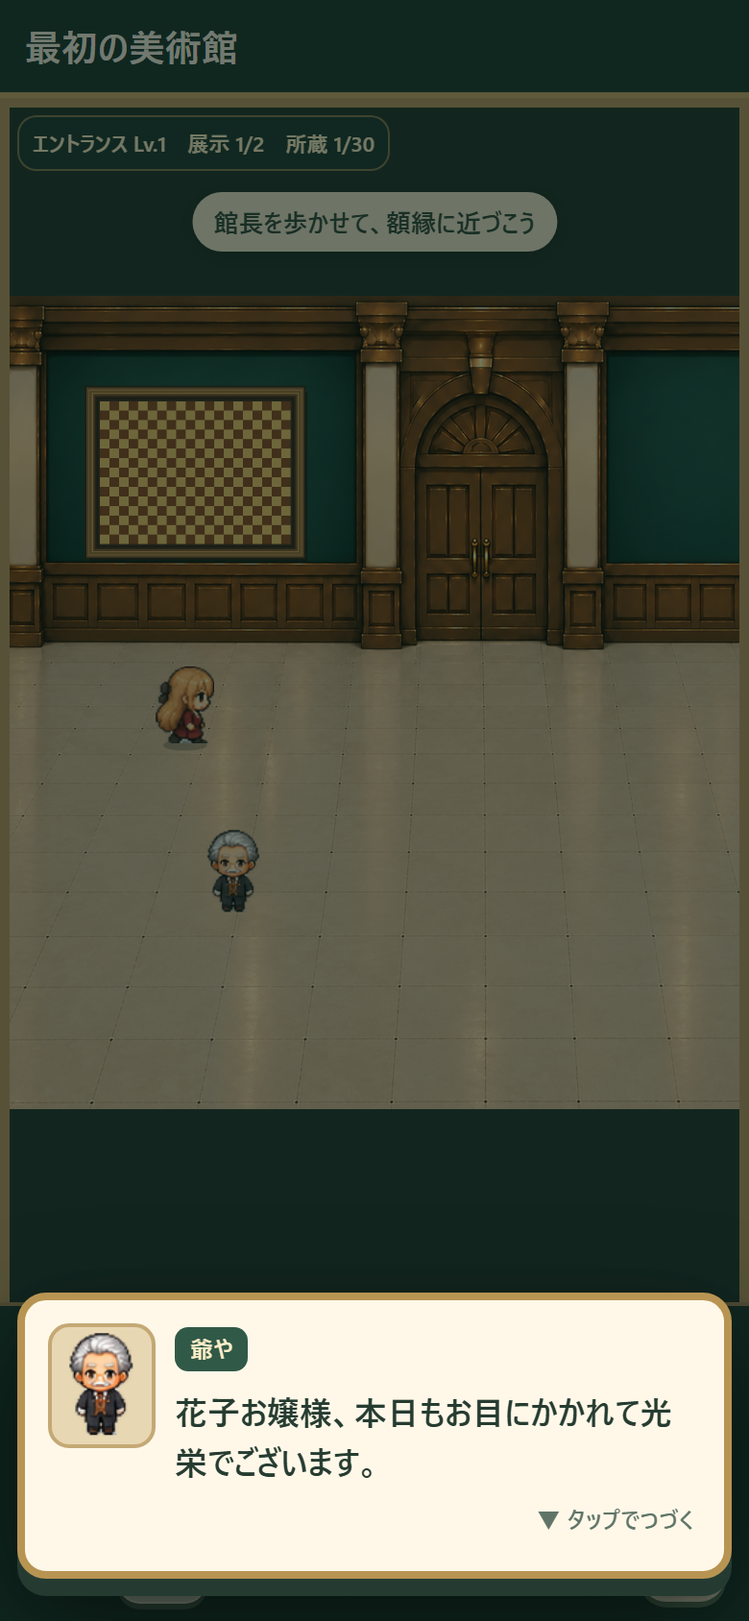
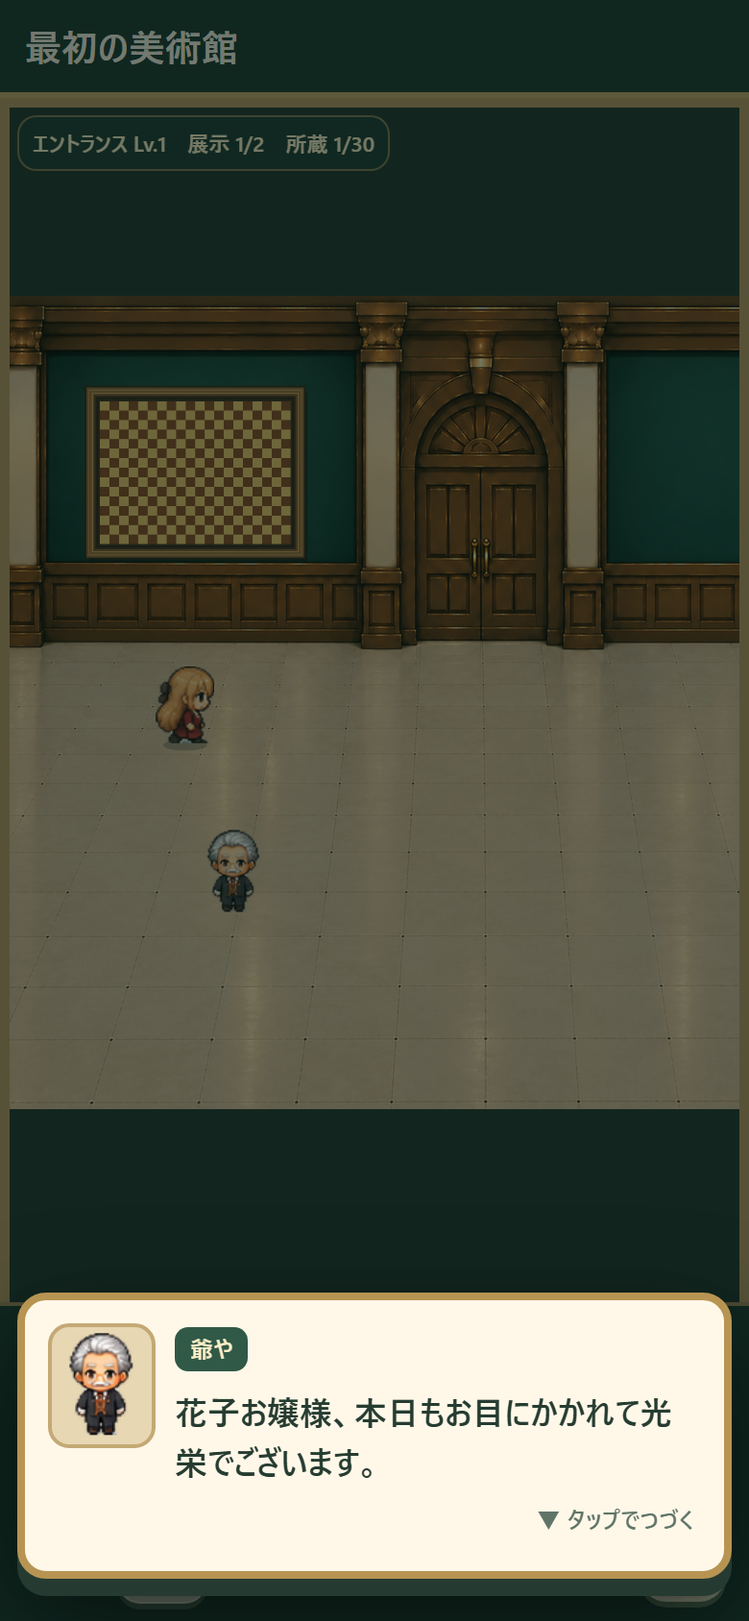
fix(a18): refine tutorial dialogue, hint position and artwork form

Changed region(s): [[0.2462, 0.0924, 0.7385, 0.154]]

diff --git a/layout-test/index.html b/layout-test/index.html
@@ -68,11 +68,11 @@ footer{background:#18372f;color:#ecdcbf;font-size:12px;padding:5px 14px;flex:non
 }
 @media(max-height:390px){header{height:47px}.brand #museumName{font-size:17px}.status{font-size:13px}.nav button{font-size:13px;padding:7px 9px}.dpad{width:133px;height:133px}.act button{min-height:54px}.stage .hint{font-size:13px;padding:7px 11px}}
 @media(max-width:720px){.brand small{display:none}.brand{min-width:110px}.brand #museumName{font-size:16px}.status{font-size:12px}.nav button{font-size:12px;padding:8px}}
-</style><link rel="stylesheet" href="art-inspect.css?v=editor-v2-20261027"><link rel="stylesheet" href="viewer-minimal.css?v=1.10"><link rel="stylesheet" href="portrait.css?v=1.5"><link rel="stylesheet" href="viewer-orientation.css?v=1.5"><link rel="stylesheet" href="functional-ui.css?v=1.6"><link rel="stylesheet" href="rpg-chat.css?v=1.6"><link rel="stylesheet" href="p6-story.css?v=1"><link rel="stylesheet" href="ui-v17.css?v=1.7"><link rel="stylesheet" href="registration-compact.css?v=1.20"><link rel="stylesheet" href="a18-fixed-ui.css?v=1"><link rel="stylesheet" href="a18-viewer-framing.css?v=1"><link rel="stylesheet" href="opening-v1.css?v=4-compact-name"></head>
+</style><link rel="stylesheet" href="art-inspect.css?v=editor-v2-20261027"><link rel="stylesheet" href="viewer-minimal.css?v=1.10"><link rel="stylesheet" href="portrait.css?v=1.5"><link rel="stylesheet" href="viewer-orientation.css?v=1.5"><link rel="stylesheet" href="functional-ui.css?v=1.6"><link rel="stylesheet" href="rpg-chat.css?v=1.6"><link rel="stylesheet" href="p6-story.css?v=1"><link rel="stylesheet" href="ui-v17.css?v=1.7"><link rel="stylesheet" href="registration-compact.css?v=1.20"><link rel="stylesheet" href="a18-fixed-ui.css?v=1"><link rel="stylesheet" href="a18-viewer-framing.css?v=1"><link rel="stylesheet" href="opening-v1.css?v=4-compact-name"><link rel="stylesheet" href="tutorial-ui-polish.css?v=1"></head>
 <body>
 <div class="app">
 <header><div class="brand"><small>PUZZLE MUSEUM</small><button id="museumName" title="美術館の名前を変更">パズル美術館</button></div></header>
-<main class="stage" id="stage"><canvas id="world" aria-label="館長が歩く美術館"></canvas><button id="floorMapButton" class="a18-map-button" type="button" aria-label="館内図を開く">館内図 ▦</button><div class="status" id="statusText">展示室の入口</div><div class="tag">✦ <strong>とっておき美術館</strong></div><div class="hint" id="hint">館長を歩かせて、額縁に近づこう</div>
+<main class="stage" id="stage"><canvas id="world" aria-label="館長が歩く美術館"></canvas><button id="floorMapButton" class="a18-map-button" type="button" aria-label="館内図を開く">館内図 ▦</button><div class="status" id="statusText">展示室の入口</div><div class="tag">✦ <strong>とっておき美術館</strong></div><div class="hint" id="hint" role="status" hidden></div>
 <div class="dpad" id="dpad"><button data-d="up" aria-label="上へ">▲</button><button data-d="left" aria-label="左へ">◀</button><div class="label">歩く</div><button data-d="right" aria-label="右へ">▶</button><button data-d="down" aria-label="下へ">▼</button></div>
 <button id="settingsGear" class="a18-settings-gear" type="button" aria-label="設定を開く" title="設定">⚙</button><div class="act"><button id="cancel" class="secondary" hidden>持ち上げを戻す</button><button id="act" hidden>調べる</button></div></main>
 
@@ -256,12 +256,16 @@ function storyLine(line){
  return String(line).replaceAll('{playerHonorific}',butlerName)
   .replaceAll('{playerStaffName}',staffName).replaceAll('{museumTitle}',museumTitle);
 }
-function storyPortrait(role,message){
+function storyPortrait(role,message,highlightName=''){
  const person=role==='butler'?'爺や':'展示室スタッフ';
  const meta=window.A18Art.manifest?.[role];
  if(!meta?.portraitPath)throw Error('E_P6_PORTRAIT_MISSING '+role);
+ // Keep the name and honorific together at the end of a line on small screens.
+ const honorific=highlightName||(playerName?window.A18Registration.honorific(role,playerName,avatarGender):'');
+ let text=esc(storyLine(message));
+ if(honorific)text=text.replaceAll(esc(honorific),'<span class="a18-speaker-honorific">'+esc(honorific)+'</span>');
  return '<div class="rpg-chat p6-story-chat"><div class="rpg-portrait"><img src="'+esc(meta.portraitPath)+'" alt="'+esc(person)+'"></div>'+
- '<div class="rpg-words"><span class="rpg-name">'+esc(person)+'</span><p class="rpg-message">'+esc(storyLine(message))+'</p></div></div>';
+ '<div class="rpg-words"><span class="rpg-name">'+esc(person)+'</span><p class="rpg-message">'+text+'</p></div></div>';
 }
 function storyFailure(){
  const error=$('p6EventError');
@@ -359,34 +363,46 @@ function showButlerMuseumName(draft){
  if(!draft||!draft.name||!['male','female'].includes(draft.gender))throw Error('E_INTRO_PROFILE_DRAFT');
  showingEvent=true;
  const honorific=draft.name+(draft.gender==='female'?'お嬢様':'様');
- const greeting='……おや。お待ちしておりました、'+honorific+'。';
- open('ようこそ',
-  storyPortrait('butler',greeting)+
-  '<p>ようこそ。こちらは、あなた様の美術館でございます。</p>'+
-  '<p>さて……この館に、名前をいただけますかな？</p>'+
-  '<label for="a18OpeningMuseumTitle">美術館の名前</label>'+
-  '<input id="a18OpeningMuseumTitle" maxlength="24" autocomplete="off">'+
-  '<p id="a18OpeningMuseumError" class="error" role="alert"></p>'+
-  '<div class="p6-story-actions"><button id="a18OpeningMuseumOk" type="button">この名前にする</button></div>','rpg');
- $('a18OpeningMuseumTitle').value=museumTitle;
- const confirm=async()=>{
-  if(saving||saveBlocked)return;
-  const title=$('a18OpeningMuseumTitle').value.trim();
-  if(!title){$('a18OpeningMuseumError').textContent='美術館の名前を入力してください。';return;}
-  $('a18OpeningMuseumOk').disabled=true;
-  if(!await commitChange(s=>{
-   s.playerName=draft.name;s.avatarGender=draft.gender;s.museumTitle=title;
-  },{event:false})){
-   $('a18OpeningMuseumError').textContent='保存できませんでした。再読み込み後にやり直してください。';
-   $('a18OpeningMuseumOk').disabled=false;
+ const lines=[
+  '……おや。\nお待ちしておりました、'+honorific+'。',
+  'ようこそ。\nこちらは、あなた様の美術館でございます。',
+  'さて……\nこの館に、名前をいただけますかな？'
+ ];
+ let index=0;
+ function render(){
+  const input=index===2;
+  open('ようこそ',
+   '<div class="a18-intro-museum-dialogue">'+storyPortrait('butler',lines[index],honorific)+'</div>'+
+   (input?'<div class="a18-intro-museum-form"><label for="a18OpeningMuseumTitle">美術館の名前</label>'+
+     '<input id="a18OpeningMuseumTitle" maxlength="24" autocomplete="off">'+
+     '<p id="a18OpeningMuseumError" class="error" role="alert"></p></div>':'')+
+   '<div class="p6-story-actions"><button id="'+(input?'a18OpeningMuseumOk':'a18OpeningMuseumNext')+
+   '" type="button">'+(input?'この名前にする':'つづく ▼')+'</button></div>','rpg');
+  if(!input){
+   $('a18OpeningMuseumNext').onclick=()=>{index++;render();};
    return;
   }
-  showingEvent=false;
-  close();
-  showIntroAfterProfile();
- };
- $('a18OpeningMuseumOk').onclick=()=>{void confirm();};
- $('a18OpeningMuseumTitle').onkeydown=e=>{if(e.key==='Enter'){e.preventDefault();void confirm();}};
+  $('a18OpeningMuseumTitle').value=museumTitle;
+  const confirm=async()=>{
+   if(saving||saveBlocked)return;
+   const title=$('a18OpeningMuseumTitle').value.trim();
+   if(!title){$('a18OpeningMuseumError').textContent='美術館の名前を入力してください。';return;}
+   $('a18OpeningMuseumOk').disabled=true;
+   if(!await commitChange(s=>{
+    s.playerName=draft.name;s.avatarGender=draft.gender;s.museumTitle=title;
+   },{event:false})){
+    $('a18OpeningMuseumError').textContent='保存できませんでした。再読み込み後にやり直してください。';
+    $('a18OpeningMuseumOk').disabled=false;
+    return;
+   }
+   showingEvent=false;
+   close();
+   showIntroAfterProfile();
+  };
+  $('a18OpeningMuseumOk').onclick=()=>{void confirm();};
+  $('a18OpeningMuseumTitle').onkeydown=e=>{if(e.key==='Enter'){e.preventDefault();void confirm();}};
+ }
+ render();
 }
 function tutorialPending(){
  return currentSave?.progression.events.find(e=>e.id==='intro-v1')?.status==='queued';
@@ -1045,8 +1061,8 @@ function inspect(i){
  const a=slot(i);
  if(!a){open('空の額縁','<p>スタッフから新しい作品を受け取り、この額縁まで運んできましょう。</p><div class="row"><button id="close">わかった</button></div>');$('close').onclick=close;return}
  const img=a.displaySrc||a.originalURL||'';
- const items=[...works].filter(w=>w.fixtureId!=null).sort((x,y)=>fixtureRank(x.fixtureId)-fixtureRank(y.fixtureId)).map(w=>({id:w.id,title:w.title,pieces:w.pieces,complete:w.complete,registered:w.registered,notes:w.notes||'',src:w.displaySrc||w.originalURL||'',originalSrc:w.originalURL||''}));
- open(a.title,'<div class="inspect-shell"><div class="inspect-top"><h2>'+esc(a.title)+'</h2><p>完成日：'+esc(a.complete||'不明')+'　登録日：'+esc(a.registered||'不明')+'　ピース：'+esc(a.pieces||'未登録')+'</p></div>'+
+ const items=[...works].filter(w=>w.fixtureId!=null).sort((x,y)=>fixtureRank(x.fixtureId)-fixtureRank(y.fixtureId)).map(w=>({id:w.id,title:w.title,registered:w.registered,notes:w.notes||'',src:w.displaySrc||w.originalURL||'',originalSrc:w.originalURL||''}));
+ open(a.title,'<div class="inspect-shell"><div class="inspect-top"><h2>'+esc(a.title)+'</h2><p>登録日：'+esc(a.registered||'不明')+'</p></div>'+
  '<button id="inspectPhoto" class="inspect-photo" type="button" aria-label="写真をフルサイズで鑑賞する">'+(img?'<img src="'+esc(img)+'" alt="'+esc(a.title)+'">':'<span>写真を読み込めませんでした</span>')+'<span class="inspect-tap">タップで大きく鑑賞</span></button>'+
  '<div class="inspect-memory"><strong>備考・思い出</strong><p>'+esc(a.notes||'まだ記録されていません')+'</p></div>'+
  '<div class="inspect-bottom"><button id="lift">持ち上げる</button><button id="editArtPhoto">写真を再調整</button><button id="editNote">備考を編集</button><button id="close">閉じる</button></div></div>','art-inspect');
@@ -1096,7 +1112,7 @@ function list(){
  const cards=displayed.map(a=>{
   const img=a.thumbnail||a.displaySrc||a.originalURL||'';
   return '<div class="artitem">'+(img?'<img class="art-thumb" src="'+esc(img)+'" alt="">':'<span class="art-thumb blank-thumb" aria-hidden="true">額</span>')+
-   '<span class="artitem-copy"><b>'+esc(a.title)+'</b><small>'+artworkLocation(a)+' ／ 完成日：'+esc(a.complete||'不明')+'</small>'+
+   '<span class="artitem-copy"><b>'+esc(a.title)+'</b><small>'+artworkLocation(a)+'</small>'+
  (a.notes?'<small class="art-memory">思い出：'+esc(a.notes.length>58?a.notes.slice(0,58)+'…':a.notes)+'</small>':'')+'</span>'+
    '<button data-work="'+esc(a.id)+'">'+(a.fixtureId!=null?'作品を見る':'取り出す')+'</button>'+
    '<button class="a18-work-delete" data-delete-work="'+esc(a.id)+'" aria-label="'+esc(a.title)+'を削除">削除</button></div>';
@@ -1111,7 +1127,7 @@ function list(){
   const art=works.find(a=>a.id===button.dataset.work);if(!art)return;
   if(art.fixtureId!=null){
    const items=[...works].filter(x=>x.fixtureId!=null).sort((a,b)=>fixtureRank(a.fixtureId)-fixtureRank(b.fixtureId)).map(w=>({
-     id:w.id,title:w.title,pieces:w.pieces,complete:w.complete,registered:w.registered,notes:w.notes||'',
+     id:w.id,title:w.title,registered:w.registered,notes:w.notes||'',
      src:w.displaySrc||w.originalURL||'',originalSrc:w.originalURL||''
    }));
    close();window.A18Viewer.open({items,selectedId:art.id,onClose:()=>{modal=false;list()}});modal=true;

diff --git a/layout-test/staff-flow.js b/layout-test/staff-flow.js
@@ -40,9 +40,12 @@ function honorific(role,playerName,gender){
 }
 function portrait(message,role=activeRole){
  const butler=role==='butler',meta=window.A18Art?.manifest?.[butler?'butler':'staff'];
+ let text=esc(message);
+ if(activePlayer&&activePlayer!=='館長')
+  text=text.replaceAll(esc(activePlayer),'<span class="a18-speaker-honorific">'+esc(activePlayer)+'</span>');
  return '<div class="rpg-chat"><div class="rpg-portrait"><img src="'+esc(meta?.portraitPath||'')+'" alt="'+(butler?'爺や':'スタッフ')+'"></div>'+
  '<div class="rpg-words"><span class="rpg-name">'+(butler?'爺や':'展示室スタッフ')+'</span>'+
- '<p class="rpg-message">'+esc(message)+'</p></div></div>';
+ '<p class="rpg-message">'+text+'</p></div></div>';
 }
 function staffPortrait(message){return portrait(message);}
 function reviewLayout(message,media,choices){
@@ -125,9 +128,7 @@ function form({spotNo=0,viaStaff=false,open,close,works,onRegistered,changeScene
  '<div class="registration-intro">'+staffPortrait(role==='butler'?activePlayer+'、大切な作品をお預かりいたします。':'新しい作品を預かるね！')+'</div>'+
  '<div class="registration-fields">'+
  '<label>作品名<input id="name" maxlength="80" placeholder="例：お気に入りの風景"></label>'+
- '<label>完成日（任意・不明のまま登録できます）<input id="date" type="date"></label>'+
- '<div class="date-actions"><button type="button" id="dateClear" class="light">不明</button><button type="button" id="dateToday" class="light">今日</button></div>'+
- '<label>ピース数（任意）<input id="pieces" type="number" min="1" max="999999"></label>'+
+
  '<label>備考・思い出（任意）<textarea id="notes" maxlength="3000" rows="2" placeholder="作品にまつわる思い出を自由に残せます"></textarea></label>'+
  '<label>写真<input id="photo" type="file" accept="image/*"></label></div>'+
  '<p class="prep-warn">この端末のブラウザに保存します。原本写真は変更しません。ブラウザのデータ消去やプライベートモードでは失われる場合があります。</p>'+
@@ -137,21 +138,15 @@ function form({spotNo=0,viaStaff=false,open,close,works,onRegistered,changeScene
    const d=new Date();
    return d.getFullYear()+'-'+String(d.getMonth()+1).padStart(2,'0')+'-'+String(d.getDate()).padStart(2,'0');
  };
- $('date').value='';
- $('dateToday').onclick=()=>{$('date').value=today();};
- $('dateClear').onclick=()=>{$('date').value='';};
  $('close').onclick=close;
  $('save').onclick=()=>{
   const file=$('photo').files?.[0],name=$('name').value.trim();
-  const complete=$('date').value||null;
-  const rawPieces=$('pieces').value.trim();
-  const pieces=rawPieces===''?null:Number(rawPieces);
   if(!name||!file){$('err').textContent='作品名と写真を選んでください';return}
-  if($('pieces').validity.badInput||(pieces!==null&&(!Number.isFinite(pieces)||pieces<=0))){$('err').textContent='ピース数は空欄、または0より大きい数値を入力してください';return}
   if(!file.type.startsWith('image/')){$('err').textContent='画像を選択してください';return}
   if(file.size>30*1024*1024){$('err').textContent='30MB以下の画像を選んでください';return}
   const originalURL=URL.createObjectURL(file),image=new Image();
-  const entry={title:name,pieces,complete,
+  // Legacy v3 storage still requires these two keys. New artwork no longer uses them.
+  const entry={title:name,pieces:null,complete:null,
    notes:$('notes').value.trim(),registered:today(),fixtureId:null,image,originalURL,originalBlob:file};
   image.onload=()=>offer(ctx,entry);
   image.onerror=()=>{URL.revokeObjectURL(originalURL);$('err').textContent='写真を読み込めませんでした'};

diff --git a/layout-test/registration-compact.css b/layout-test/registration-compact.css
@@ -14,15 +14,10 @@
 .overlay .dialog.registration-compact{box-sizing:border-box!important;width:100%!important;max-width:min(730px,100%)!important;min-width:0!important;overflow-x:hidden!important}
 .dialog.registration-compact .registration-fields{width:100%;max-width:100%;box-sizing:border-box}
 .dialog.registration-compact .registration-fields label{min-width:0!important;max-width:100%;overflow:hidden}
-.dialog.registration-compact .registration-fields input#date[type=date]{display:block!important;inline-size:100%!important;width:100%!important;min-inline-size:0!important;min-width:0!important;max-inline-size:100%!important;max-width:100%!important;box-sizing:border-box!important;overflow:hidden!important;font-size:16px!important;text-align:left!important;padding:7px 10px!important;-webkit-appearance:none!important;appearance:none!important}
-.dialog.registration-compact .registration-fields input#date::-webkit-date-and-time-value{text-align:left;min-height:1.2em}
-.dialog.registration-compact .registration-fields input#date::-webkit-calendar-picker-indicator{margin-left:auto;flex-shrink:0}
 .registration-compact .registration-fields label{display:block;margin:0;font-size:14px;font-weight:700;line-height:1.3}
 .registration-compact .registration-fields input:not([type=file]),.registration-compact .registration-fields textarea{width:100%;font-size:16px;min-height:38px;padding:7px 10px;margin-top:3px;border-radius:8px}
 .registration-compact .registration-fields textarea{min-height:54px;max-height:110px;resize:vertical}
 .registration-compact .registration-fields input[type=file]{display:block;width:100%;font-size:13px;padding:5px 0;margin-top:2px}
-.registration-compact .date-actions{display:flex;gap:7px;justify-content:flex-end;margin:-2px 0 0}
-.registration-compact .date-actions button{font-size:12px;min-height:29px;padding:4px 14px;border-radius:7px}
 .registration-compact .prep-warn{font-size:11px;line-height:1.3;margin:5px 0;color:#695e4a}
 .registration-compact #err{margin:0;font-size:12px}
 .registration-compact .registration-actions{position:sticky;bottom:-12px;background:#fff8e9;padding:8px 0 3px;margin:0;display:grid;grid-template-columns:1.3fr 1fr;gap:8px;z-index:1}

diff --git a/layout-test/tutorial-ui-polish.css b/layout-test/tutorial-ui-polish.css
@@ -1,0 +1,19 @@
+/* A18 2026-10-27: conversation legibility and nonintrusive tutorial hints. */
+.rpg-message{line-break:strict;word-break:normal;overflow-wrap:anywhere}
+.p6-story-chat .rpg-message{white-space:pre-line}
+.a18-speaker-honorific{display:inline-block;max-width:100%;white-space:nowrap}
+.a18-intro-museum-dialogue .rpg-chat{align-items:center}
+.a18-intro-museum-dialogue .rpg-message{line-height:1.55}
+.a18-intro-museum-form{margin-top:10px}
+.a18-intro-museum-form label{display:block;margin-top:2px}
+.a18-intro-museum-form input{min-height:45px}
+.a18-intro-museum-form .error:empty{display:none}
+@media (orientation:portrait) and (max-width:850px){
+  .stage:not(.overview)>.hint{
+    top:auto!important;bottom:176px!important;left:50%!important;right:auto!important;
+    transform:translateX(-50%)!important;
+    width:max-content;max-width:calc(100% - 24px);
+    padding:7px 11px;line-height:1.45;font-size:13px;text-align:center;
+    pointer-events:none;
+  }
+}

diff --git a/layout-test/viewer.js b/layout-test/viewer.js
@@ -50,11 +50,10 @@
     showOriginal=false;reset();
     title.textContent=entry.title||'無題の作品';
     counter.textContent=(index+1)+' / '+items.length+' 作品';
-    const date=entry.complete||'不明',pieces=entry.pieces ? entry.pieces.toLocaleString('ja-JP')+'ピース':'ピース数未登録';
     const registered=entry.registered||'不明';
     const note=(entry.notes||'').trim();
     details.classList.toggle('has-memory',!!note);
-    details.textContent=pieces+'　｜　完成日 '+date+'　｜　登録日 '+registered+(note?'\n備考・思い出：'+note:'');
+    details.textContent='登録日 '+registered+(note?'\n備考・思い出：'+note:'');
     $('photoPrev').disabled=index<=0;$('photoNext').disabled=index>=items.length-1;
     photo.hidden=!entry.src;frame.hidden=!entry.src;empty.hidden=!!entry.src;
     photo.alt=(entry.title||'作品')+'の全体写真';

diff --git a/docs/qa/test_first_artwork_tutorial.py b/docs/qa/test_first_artwork_tutorial.py
@@ -43,6 +43,16 @@ def boot_skip(page):
     page.locator("#overlay").wait_for(state="hidden",timeout=15000)
     assert_pass("profile title stored",save(page)["museumTitle"]=="最初の美術館")
     assert_pass("intro stays queued after profile",intro(page)["status"]=="queued")
+    hint=page.locator("#hint")
+    assert_pass("initial obsolete walk-up message absent",
+                "館長を歩かせて" not in hint.inner_text())
+    assert_pass("tutorial hint placed near bottom",
+                page.evaluate("""() => {
+                    const h=document.querySelector('#hint'),s=document.querySelector('#stage');
+                    const hb=h.getBoundingClientRect(),sb=s.getBoundingClientRect();
+                    return hb.top>sb.top+sb.height*.5 &&
+                           hb.bottom<sb.bottom-164+5;
+                }"""))
     assert_pass("no intro auto-finish button",page.locator("#startTour").count()==0)
 def walk_to_butler(page):
     for _ in range(15):page.evaluate("window.__A18_SCENE_STUDY__.move('left')")
@@ -57,6 +67,11 @@ def register(page,via_walk=True):
     page.locator("#tutorialButlerAction").wait_for()
     assert_pass("butler starts guided registration","最初の作品を預ける" in page.locator("#tutorialButlerAction").inner_text())
     page.locator("#tutorialButlerAction").click()
+    assert_pass("obsolete completion and pieces inputs removed",
+                page.locator("#date, #pieces, #dateToday, #dateClear").count()==0)
+    assert_pass("only title memory and photo are requested",
+                page.locator("#name, #notes, #photo").count()==3)
+    page.screenshot(path=str(QA/"first_art_registration_simple_390.png"),full_page=True)
     page.locator("#name").fill("大切な景色")
     page.locator("#photo").set_input_files({"name":"my-memory.png","mimeType":"image/png","buffer":picture()})
     page.locator("#save").click()
@@ -67,6 +82,8 @@ def register(page,via_walk=True):
         page.evaluate("async()=> (await window.A18P2Store.load()).works[0].originalBlob.size")>1000)
     assert_pass("photo saved before handing over",game(page)["carrying"]==save(page)["works"][0]["id"])
     assert_pass("gift not issued by registration",intro(page)["status"]=="queued")
+    assert_pass("legacy metadata not populated in new registration",
+                save(page)["works"][0]["complete"] is None and save(page)["works"][0]["pieces"] is None)
     assert_pass("persistent hint changes to carry-and-display",
         "作品を持って" in page.locator("#hint").inner_text())
     page.locator("#receiveWork").click()
@@ -104,6 +121,19 @@ def placement_gift(page):
     page.locator("#tutorialFreeRoam").click()
     page.locator("#overlay").wait_for(state="hidden")
     assert_pass("free roam after gift",not page.locator("#overlay").is_visible())
+    page.evaluate("window.__A18_SCENE_STUDY__.list()")
+    assert_pass("artwork list omits obsolete metadata",
+                "完成日" not in page.locator("#dialog").inner_text() and
+                "ピース" not in page.locator("#dialog").inner_text())
+    page.locator('[data-work]').first.click()
+    assert_pass("photo viewer omits obsolete metadata",
+                "完成日" not in page.locator("#photoDetails").inner_text() and
+                "ピース" not in page.locator("#photoDetails").inner_text())
+    page.evaluate("window.A18Viewer.close()")
+    page.evaluate("window.__A18_SCENE_STUDY__.inspect(0)")
+    assert_pass("artwork detail omits obsolete metadata",
+                "完成日" not in page.locator("#dialog").inner_text() and
+                "ピース" not in page.locator("#dialog").inner_text())
     page.reload(wait_until="domcontentloaded")
     page.locator("#a18OpeningStart").click()
     page.wait_for_timeout(650)

diff --git a/docs/qa/test_opening_v1.py b/docs/qa/test_opening_v1.py
@@ -61,10 +61,16 @@ def run():
         take(page,"opening_v1_04_gender_390.png")
         page.locator("#a18OpeningFemale").click()
         # Advance through final light dialogue until the museum naming scene.
-        press_until(page,"#a18OpeningMuseumTitle",limit=32)
+        press_until(page,"#a18OpeningMuseumNext",limit=32)
         page.locator("#a18OpeningRoot").wait_for(state="hidden",timeout=8500)
         check("museum after white fade",page.locator("#a18OpeningRoot").is_hidden())
         check("butler addresses female honorific","花子お嬢様" in page.locator("#dialog").inner_text())
+        check("museum dialogue has no form in greeting",page.locator("#a18OpeningMuseumTitle").count()==0)
+        check("intro uses normal speaker box",page.locator(".a18-intro-museum-dialogue .rpg-message").count()==1)
+        page.locator("#a18OpeningMuseumNext").click()
+        check("second dialogue separately presented",page.locator("#a18OpeningMuseumTitle").count()==0)
+        page.locator("#a18OpeningMuseumNext").click()
+        page.locator("#a18OpeningMuseumTitle").wait_for()
         take(page,"opening_v1_05_butler_museum_390.png")
         page.locator("#a18OpeningMuseumTitle").fill("星空の美術館")
         page.locator("#a18OpeningMuseumOk").click()

diff --git a/docs/qa/test_opening_framed_transitions.py b/docs/qa/test_opening_framed_transitions.py
@@ -131,7 +131,7 @@ def main():
                 require("only scene 1->2 uses partial dim "+str(width),any(x["dim"] for x in events))
                 require("dialogue stays fixed at scene 4 "+str(width),anchored_dialog(fixed_dialog,rect(dialog)))
                 page.screenshot(path=str(QA/("framed_transition_scene4_"+str(width)+".png")),full_page=True)
-                advance_until(page,"#a18OpeningMuseumTitle",limit=28)
+                advance_until(page,"#a18OpeningMuseumNext",limit=28)
                 events=page.evaluate("window.__openingFx")
                 require("end uses image-only white "+str(width),any(x["white"] and x["visible"] for x in events))
                 require("end white remains bounded "+str(width),all(x["bounded"] for x in events))

diff --git a/docs/A18_TUTORIAL_UI_POLISH_20261027.md b/docs/A18_TUTORIAL_UI_POLISH_20261027.md
@@ -1,0 +1,26 @@
+# A18 チュートリアル画面・会話・登録項目の調整（2026-10-27）
+
+## ユーザー監修で決まった変更
+- 初回の館名設定は「見出し＋長文＋フォーム一括」ではなく、執事との**通常の会話を一つずつ**進め、最後に美術館名を設定する。話者名・顔・本文の表示スタイルは他のゲーム内会話と統一。途中で入力欄を表示しない。
+- 上部の「館長を歩かせて、額縁に近づこう」は不要。新しいチュートリアル案内は**館内表示の下端付近、操作UIの直上**へ表示する。作品の持ち運び・展示案内も同じ配置に統一する。
+- セリフは日本語の句読点の行頭分離を抑える。名前と「様／お嬢様」を途中で分離しないよう、会話内の敬称部分は一単位として扱う。初回の館名設定では必要な箇所を改行している。
+- 今後の作品登録は、**作品名・写真・備考／思い出（任意）**に絞る。**完成日・ピース数は登録フォーム、作品一覧、展示の詳細、鑑賞ビューアから削除**。
+- ユーザーは既存作品データを削除済みと明言しているため、移行や旧作品の表示互換を要求しない。ただしv3の原子保存契約を不必要に壊さないよう、保存に必要な内部キー `complete`・`pieces` は新規登録時 `null` として残す。これらの項目を入力・閲覧するUIは今後使用しない。
+
+## 実装
+- `layout-test/index.html`：初回の段階的な会話・館名入力、hint初期値削除、敬称一体表示、作品一覧／鑑賞リンクの旧項目削除、スタイル読込。
+- `layout-test/tutorial-ui-polish.css`：会話本文の折り返し、館名入力のサイズ、チュートリアルの通知位置。
+- `layout-test/staff-flow.js`：作品登録UIと旧入力バリデーション削除。執事とスタッフの会話内の敬称分離防止。
+- `layout-test/viewer.js`：鑑賞画面で旧項目の代わりに登録日と備考・思い出を表示。
+- `layout-test/registration-compact.css`：廃止した日付入力用スタイルを削除。
+- `docs/qa/test_opening_v1.py`、`docs/qa/test_opening_framed_transitions.py`：新しい会話3段階への移行を検証。
+- `docs/qa/test_first_artwork_tutorial.py`：名前入力画面や下端通知、旧フィールド非表示、写真登録・原本保存、一覧とビューアの旧項目非表示、フレーム贈呈と再起動を検証。
+- 画面証跡は `docs/qa/opening_v1_05_butler_museum_390.png`、`docs/qa/opening_v1_06_tour_390.png`、`docs/qa/first_art_registration_simple_390.png` ほか。
+
+## 変更していないもの
+- セピアの静止画、タイトル画像、黒帯・暗転・最後の明転。
+- キャラクターや館内背景の画像素材、歩行当たり判定、作品登録・展示・フレーム贈呈の保存タイミング、v3 schemaVersion。
+- 展示室のレベル開放、レベル2以降の未実装ストーリー、旧Gitブランチの未統合成果。
+
+## 実機監修待ち
+- iPhone Safariでの館名入力中のキーボード、370px以下の折り返し、下端通知とD-padの間隔、登録UIでの写真選択。
